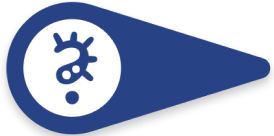
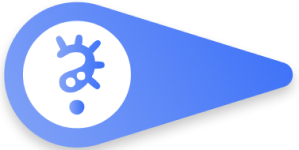
quizy

diff --git a/src/components/QuizyWheel.css b/src/components/QuizyWheel.css
@@ -5,7 +5,6 @@
     align-items: center;
     justify-content: flex-start;
     height: 100vh;
-    background-color: #0a1d3f;
     color: white;
     padding: 20px;
 }
@@ -88,7 +87,8 @@
 .spin-button {
     width: 100%;
     padding: 15px;
-    background-color: #284286;
+    background: rgb(45,93,219);
+    background: linear-gradient(45deg, rgba(45,93,219,1) 0%, rgba(86,120,208,1) 100%);
     color: white;
     border: none;
     border-radius: 10px;
@@ -98,7 +98,8 @@
 }
 
 .spin-button:disabled {
-    background-color: #182C5F;
+    background: rgb(39,71,157);
+    background: linear-gradient(90deg, rgba(39,71,157,1) 0%, rgba(23,53,133,1) 100%);
     cursor: not-allowed;
 }
 

diff --git a/src/App.js b/src/App.js
@@ -30,8 +30,8 @@ function App() {
   useEffect(() => {
     if (window.Telegram && window.Telegram.WebApp) {
       window.Telegram.WebApp.expand();
-      window.Telegram.WebApp.setHeaderColor('#112558');
-      window.Telegram.WebApp.setBackgroundColor('#112558');
+      window.Telegram.WebApp.setHeaderColor('#27469B');
+      window.Telegram.WebApp.setBackgroundColor('#27469B');
       window.Telegram.WebApp.disableVerticalSwipes();
 
       const telegramUser = window.Telegram.WebApp.initDataUnsafe.user;
